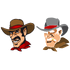
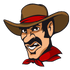
Dodanie grafik pionkow

diff --git a/src/main/java/com/example/grapio/GameController.java b/src/main/java/com/example/grapio/GameController.java
@@ -1,18 +1,11 @@
 package com.example.grapio;
 
-import javafx.event.ActionEvent;
+
 import javafx.fxml.FXML;
-import javafx.fxml.FXMLLoader;
 import javafx.fxml.Initializable;
-import javafx.scene.Node;
-import javafx.scene.Parent;
-import javafx.scene.Scene;
 import javafx.scene.control.Label;
 import javafx.scene.image.Image;
 import javafx.scene.image.ImageView;
-import javafx.stage.Stage;
-
-import java.io.IOException;
 import java.net.URL;
 import java.util.*;
 
@@ -47,7 +40,7 @@ public class GameController implements Initializable {
     public void throwDice() {
         int roll = dice.giveRandom(1, 6);
         diceLabel.setText(((Integer)roll).toString());
-        fields.get(roll).setImage(new Image(Objects.requireNonNull(getClass().getResourceAsStream("images/players/3.png"))));
+        fields.get(roll).setImage(new Image(Objects.requireNonNull(getClass().getResourceAsStream("images/players/1.png"))));
     }
 
 
